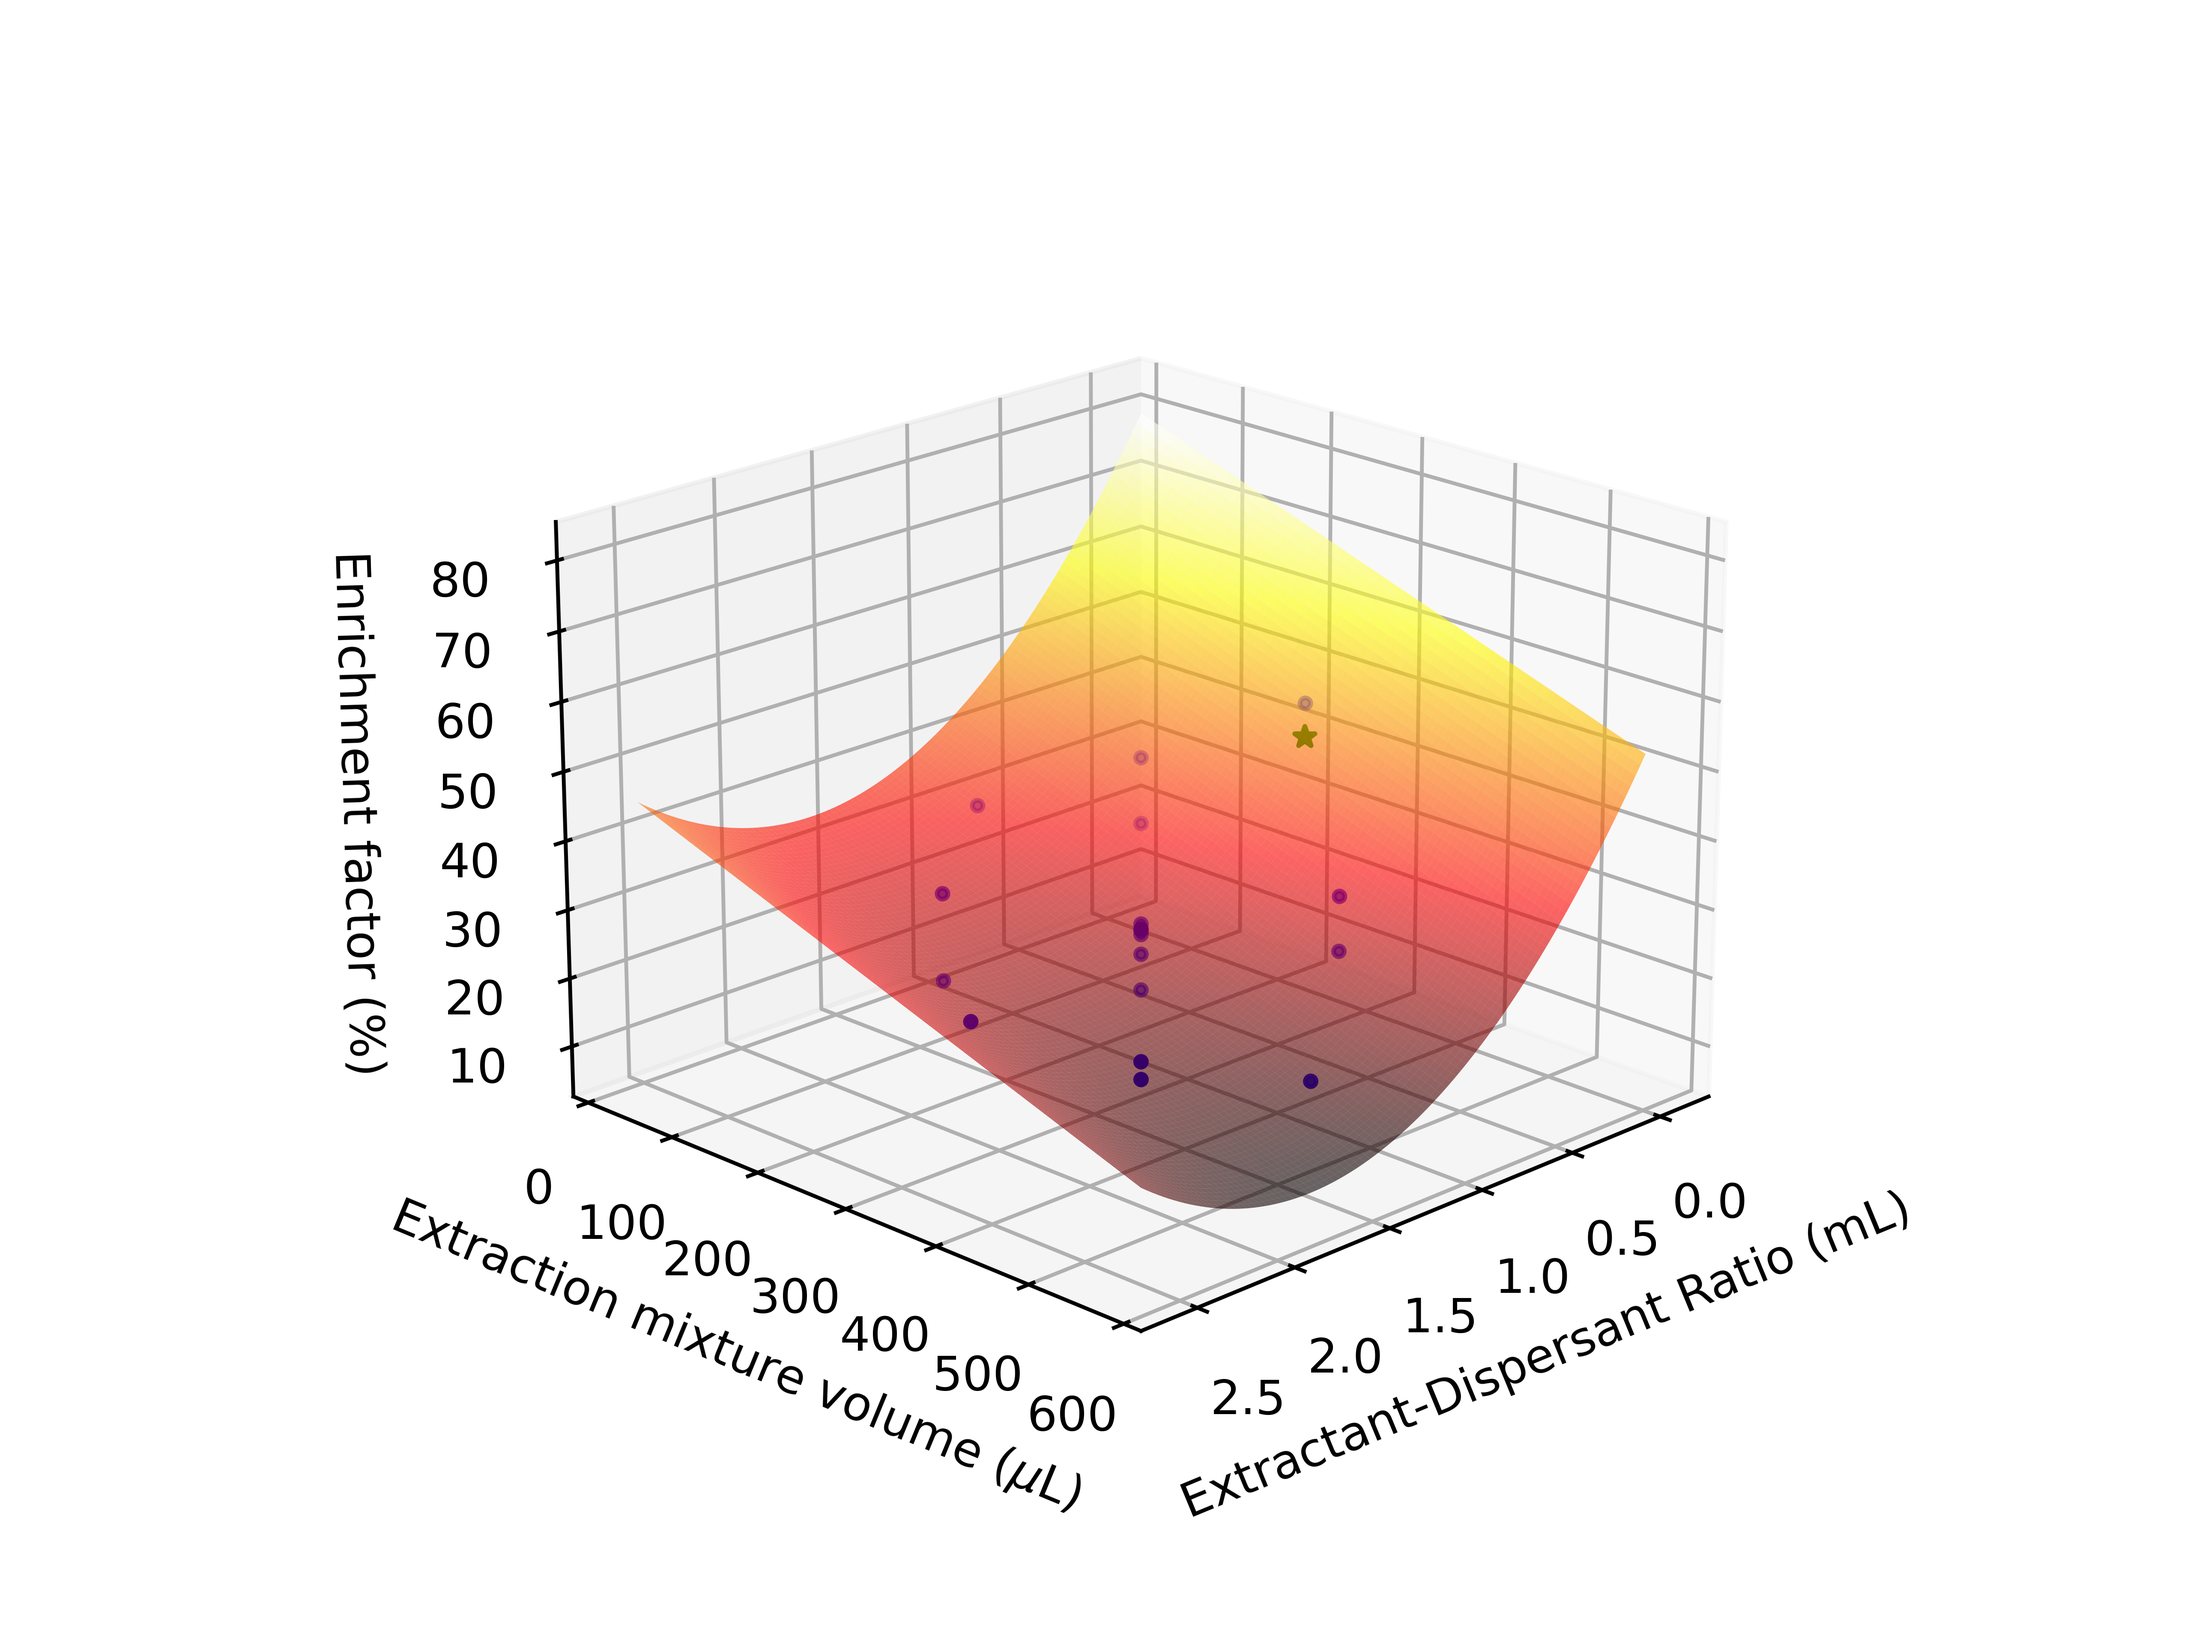
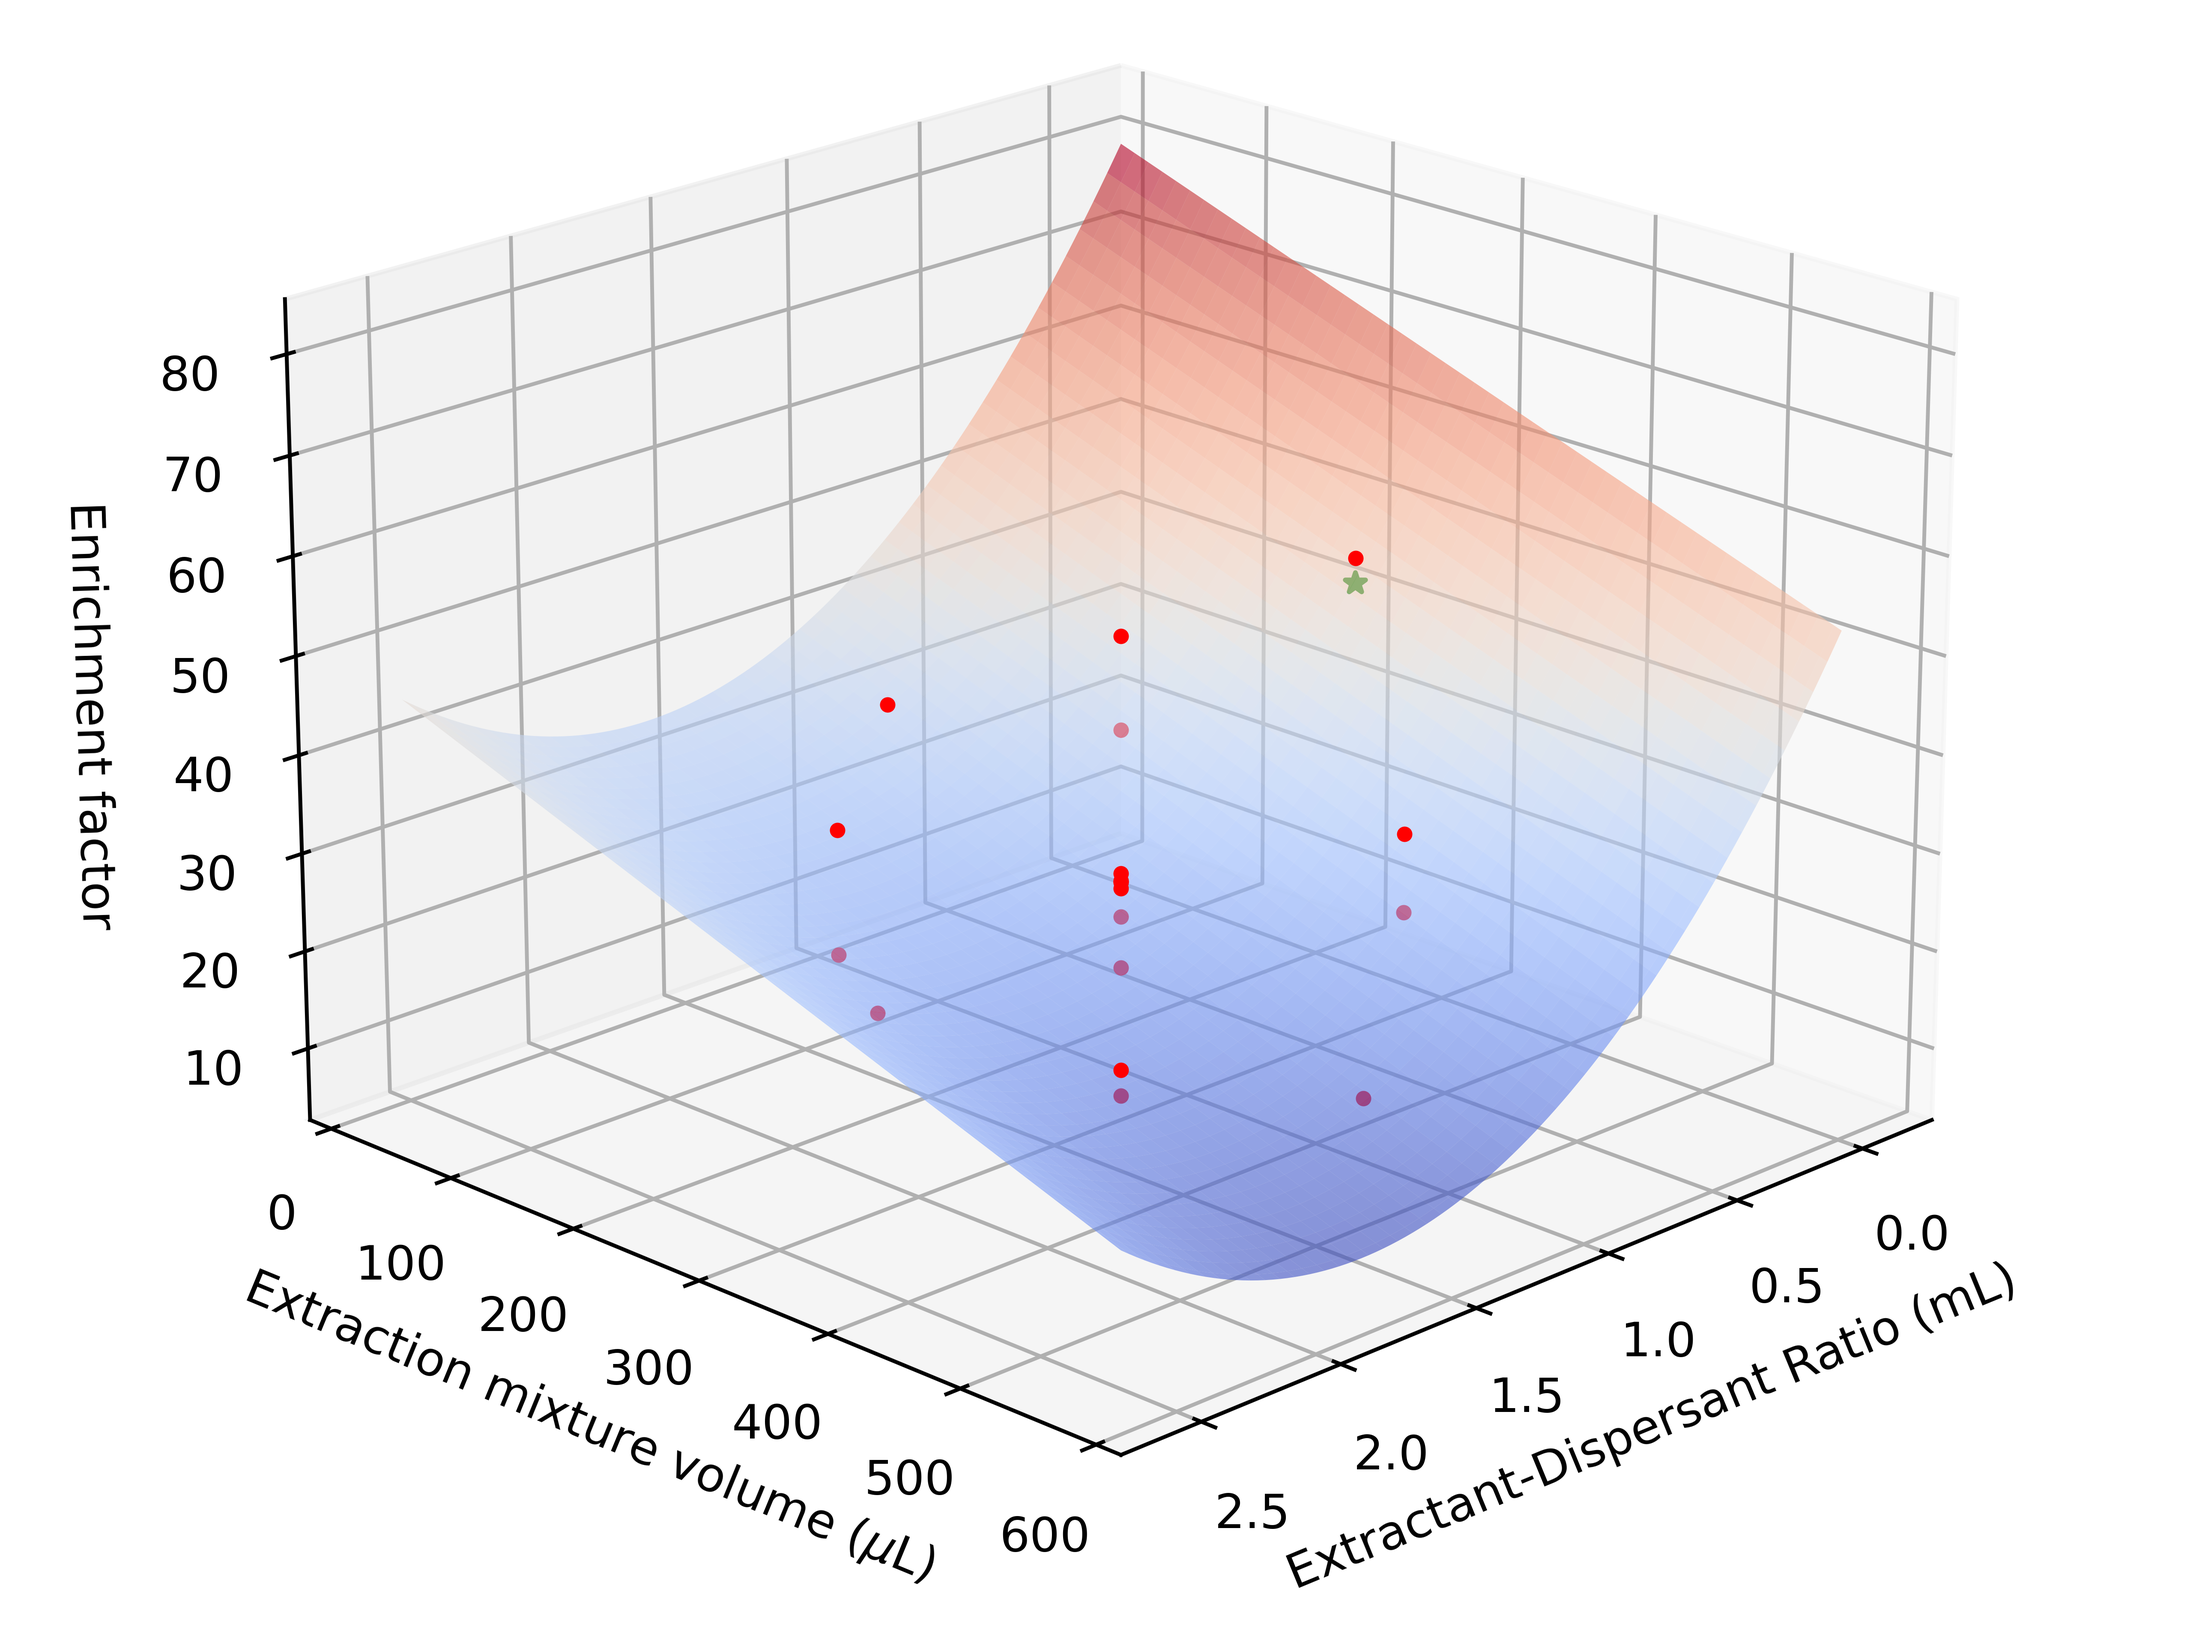
upgrade of surface plots

diff --git a/surface_plot_REC.py b/surface_plot_REC.py
@@ -62,7 +62,7 @@ def import_experiments(experimental_path, effects, response):
     data_df = data_df[effects + response]  # Rearrangement of data
     data_df = data_df.reset_index(drop=True)  # Reset indexes
     data_df = data_df.apply(pd.to_numeric, errors="coerce")  # Convert to numeric type
-    data_df["Recovery"] = 100 * data_df["Recovery"]
+    data_df["Recovery"] = data_df["Recovery"] * 100
     print(data_df)
 
     return data_df
@@ -115,8 +115,8 @@ def rsm_plot(
     effects,
     fixed_effect,
     plot_type,
-    scatter="True",
-    optimum="None",
+    scatter=None,
+    optimum=None,
     path=None,
 ):
     grid_space = 100  # CONSTANT
@@ -151,10 +151,11 @@ def rsm_plot(
     # Create grid to predict response
     x1_pred, x2_pred, x3_pred = np.meshgrid(X_pred[0, :], X_pred[1, :], X_pred[2, :])
     mesh = [x1_pred, x2_pred, x3_pred]
-    print(mesh)
+    # print(mesh)
+
     # Predict using response_surface function
     y_pred = response_surface(mesh, coefficients)
-    print(y_pred)
+    # print(y_pred)
 
     # PLOT SURFACE OR CONTOUR
     if plot_type == "contour":
@@ -162,12 +163,12 @@ def rsm_plot(
         fig, ax = plt.subplots(figsize=(6, 5))
         # Plot the contour plot using the contour function
         contour = ax.contourf(
-            mesh[idx_of_var[0]][:, :, 0],
-            mesh[idx_of_var[1]][:, 0, :],
-            y_pred[:, 0, :],
+            mesh[idx_of_var[0]][0, :, :],
+            mesh[idx_of_var[1]][0, :, :],
+            y_pred[0, :, :],
             levels=20,
             cmap="hot",
-            alpha=1,
+            alpha=0.9,
             antialiased=False,
         )
 
@@ -195,38 +196,63 @@ def rsm_plot(
 
     elif plot_type == "surface":
         # Create an empty figure and 3D axis
-        fig, ax = plt.subplots(subplot_kw={"projection": "3d"})
+        # fig, ax = plt.subplots(subplot_kw={"projection": "3d"})
+        ax = plt.axes(projection="3d", computed_zorder=False)
+        plt.subplots_adjust(left=0.0, right=1, bottom=0.0, top=1.1)
+
         surf = ax.plot_surface(
             mesh[idx_of_var[0]][:, :, 0],
             mesh[idx_of_var[1]][:, 0, :],
             y_pred[:, 0, :],
-            cmap="hot",
+            cmap="coolwarm",
             alpha=0.6,
             antialiased=True,
-            rcount=100,
-            ccount=100,
+            # rcount=100,
+            # ccount=100,
+            zorder=5,
         )
 
         # Plot experimental points
         if scatter == "True":
+            x = exp_data.iloc[:, 0:3].to_numpy()
+            y_pred = response_surface([x[:, 0], x[:, 1], x[:, 2]], coefficients)
+            resd = exp_data[response].to_numpy() - y_pred
+            print("REsiduals:\n", resd)
+
+            up_idx = np.where(resd < 0)[0]
+            low_idx = np.where(resd > 0)[0]
+
             ax.scatter(
-                xs=exp_data.iloc[:, idx_of_var[0]],
-                ys=exp_data.iloc[:, idx_of_var[1]],
-                zs=exp_data[response],
+                xs=exp_data.iloc[up_idx, idx_of_var[0]],
+                ys=exp_data.iloc[up_idx, idx_of_var[1]],
+                zs=exp_data[response].to_numpy()[up_idx],
                 marker=".",
-                c="blue",
-                alpha=1,
+                c="red",
+                zorder=2,
+                depthshade=False,
             )
+
+            ax.scatter(
+                xs=exp_data.iloc[low_idx, idx_of_var[0]],
+                ys=exp_data.iloc[low_idx, idx_of_var[1]],
+                zs=exp_data[response].to_numpy()[low_idx],
+                marker=".",
+                c="red",
+                zorder=10,
+                depthshade=False,
+            )
+
         if optimum != "None":
             ax.scatter(
                 xs=optimum[0][idx_of_var[0]],
                 ys=optimum[0][idx_of_var[1]],
-                zs=optimum[1],
+                zs=optimum[1] * 1.05,
                 marker="*",
                 c="green",
+                zorder=1,
             )
 
-        ax.view_init(azim=-35, elev=20)  # Set view
+        ax.view_init(azim=-45, elev=20)  # Set view
         # fig.colorbar(surf, shrink=0.5, aspect=10, location="left")  # Add a color bar
 
         # Set labels and title
@@ -234,7 +260,7 @@ def rsm_plot(
         ax.set_ylabel(effects[idx_of_var[1]] + " ($\mu$L)")
         ax.set_zlabel(response + " (%)")
 
-    if path != "None":
+    if path != None:
         path = path + r"\RSM_REC.png"
         print("Saving figure in:", path)
         plt.savefig(path, dpi=800)
@@ -243,7 +269,7 @@ def rsm_plot(
 
 
 ################################################################################
-rec_coeff_path = r"Final results - REC\model_params.csv"
+ef_coeff_path = r"Final results - REC\model_params.csv"
 experimental_path = r"C:\Users\marco\OneDrive - usach.cl\DLLME of PCB77 employing designed DES\Hojas de calculo\Experimental.xlsx"
 
 exp_data = import_experiments(
@@ -256,9 +282,8 @@ exp_data = import_experiments(
     response=["Enrichment factor", "Recovery"],
 )
 
-coefficients = import_coeff(rec_coeff_path)
+coefficients = import_coeff(ef_coeff_path)
 optimal_factors, optimal_response = rsm_optimization(coefficients, exp_data)
-
 
 rsm_plot(
     coefficients=coefficients,

diff --git a/surface_plot_EF.py b/surface_plot_EF.py
@@ -114,8 +114,8 @@ def rsm_plot(
     effects,
     fixed_effect,
     plot_type,
-    scatter="True",
-    optimum="None",
+    scatter=None,
+    optimum=None,
     path=None,
 ):
     grid_space = 100  # CONSTANT
@@ -150,10 +150,11 @@ def rsm_plot(
     # Create grid to predict response
     x1_pred, x2_pred, x3_pred = np.meshgrid(X_pred[0, :], X_pred[1, :], X_pred[2, :])
     mesh = [x1_pred, x2_pred, x3_pred]
-    print(mesh)
+    # print(mesh)
+
     # Predict using response_surface function
     y_pred = response_surface(mesh, coefficients)
-    print(y_pred)
+    # print(y_pred)
 
     # PLOT SURFACE OR CONTOUR
     if plot_type == "contour":
@@ -166,7 +167,7 @@ def rsm_plot(
             y_pred[0, :, :],
             levels=20,
             cmap="hot",
-            alpha=1,
+            alpha=0.9,
             antialiased=False,
         )
 
@@ -194,34 +195,60 @@ def rsm_plot(
 
     elif plot_type == "surface":
         # Create an empty figure and 3D axis
-        fig, ax = plt.subplots(subplot_kw={"projection": "3d"})
+        # fig, ax = plt.subplots(subplot_kw={"projection": "3d"})
+        ax = plt.axes(projection="3d", computed_zorder=False)
+        plt.subplots_adjust(left=0.0, right=1, bottom=0.0, top=1.1)
+
         surf = ax.plot_surface(
             mesh[idx_of_var[0]][0, :, :],
             mesh[idx_of_var[1]][0, :, :],
             y_pred[0, :, :],
-            cmap="hot",
+            cmap="coolwarm",
             alpha=0.6,
             antialiased=True,
-            rcount=100,
-            ccount=100,
+            # rcount=100,
+            # ccount=100,
+            zorder=5,
         )
 
         # Plot experimental points
         if scatter == "True":
+            x = exp_data.iloc[:, 0:3].to_numpy()
+            y_pred = response_surface([x[:, 0], x[:, 1], x[:, 2]], coefficients)
+            resd = exp_data[response].to_numpy() - y_pred
+            print("REsiduals:\n", resd)
+
+            up_idx = np.where(resd < 0)[0]
+            low_idx = np.where(resd > 0)[0]
+
             ax.scatter(
-                xs=exp_data.iloc[:, idx_of_var[0]],
-                ys=exp_data.iloc[:, idx_of_var[1]],
-                zs=exp_data[response],
+                xs=exp_data.iloc[up_idx, idx_of_var[0]],
+                ys=exp_data.iloc[up_idx, idx_of_var[1]],
+                zs=exp_data[response].to_numpy()[up_idx],
                 marker=".",
-                c="blue",
+                c="red",
+                zorder=2,
+                depthshade=False,
             )
+
+            ax.scatter(
+                xs=exp_data.iloc[low_idx, idx_of_var[0]],
+                ys=exp_data.iloc[low_idx, idx_of_var[1]],
+                zs=exp_data[response].to_numpy()[low_idx],
+                marker=".",
+                c="red",
+                zorder=10,
+                depthshade=False,
+            )
+
         if optimum != "None":
             ax.scatter(
                 xs=optimum[0][idx_of_var[0]],
                 ys=optimum[0][idx_of_var[1]],
-                zs=optimum[1],
+                zs=optimum[1] * 1.05,
                 marker="*",
                 c="green",
+                zorder=1,
             )
 
         ax.view_init(azim=45, elev=20)  # Set view
@@ -230,7 +257,7 @@ def rsm_plot(
         # Set labels and title
         ax.set_xlabel(effects[idx_of_var[0]] + " (mL)")
         ax.set_ylabel(effects[idx_of_var[1]] + " ($\mu$L)")
-        ax.set_zlabel(response + " (%)")
+        ax.set_zlabel(response)
 
     if path != "None":
         path = path + r"\RSM_EF.png"
